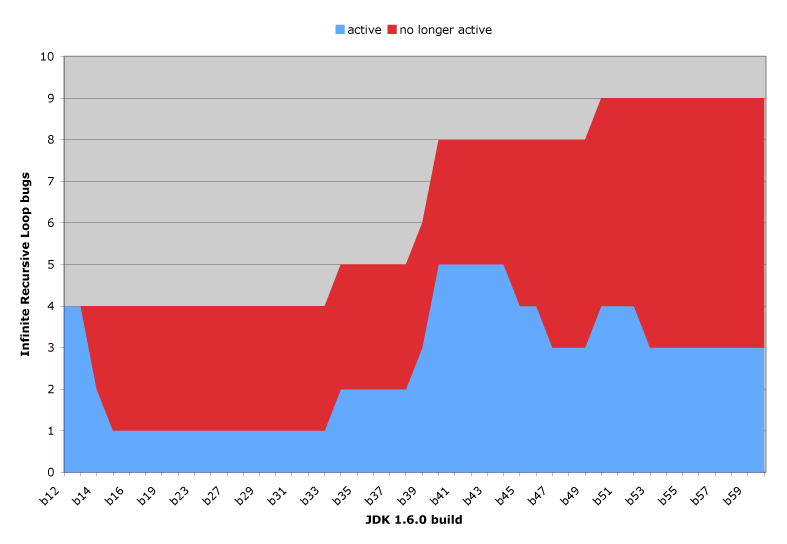
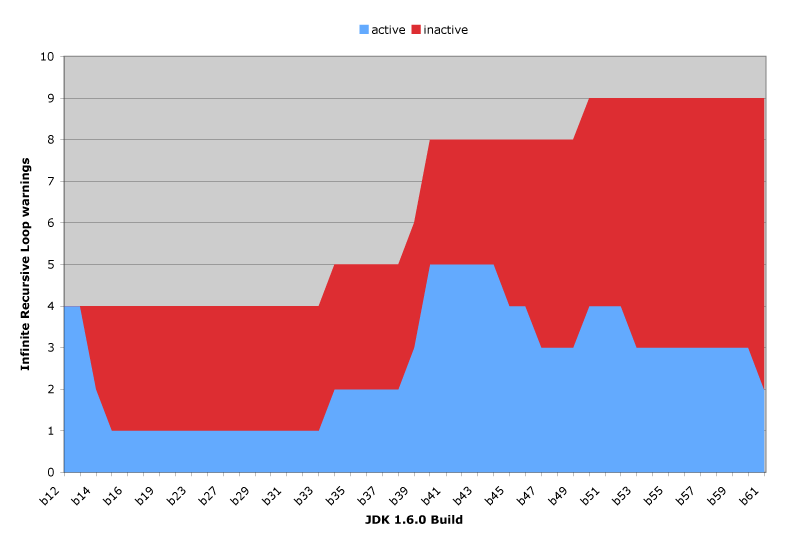
*** empty log message ***
git-svn-id: https://findbugs.googlecode.com/svn/trunk@5103 eae3c2d3-9b19-0410-a86e-396b6ccb6ab3

diff --git a/findbugs/src/doc/datamining.html b/findbugs/src/doc/datamining.html
@@ -88,9 +88,21 @@ If you have, for example, seperately analyzing each jar file used in an applicat
 <p>Do <em>not</em> use this command to combine results from analyzing different versions of the same
 file; use computeBugHistory instead.
 
-<h3><a name=""><h3></a><a name="computeBugHistory">computeBugHistory</a></h3>
+<h3><a name="computeBugHistory">computeBugHistory</a></h3>
 <p>Use this command to generate a bug database containing information from different builds or versions
-	of software you are analyzing.
+	of software you are analyzing. History is taken from the first file provided as input; any following 
+	files should be single version bug databases (if they contain history the history in those
+	files will be ignored). 
+	<p>The file the combined history is written to can be provided using the -output option, otherwise
+	it is written to standard output. The output file is not written until all input files are read, so
+	you can overwrite one of the input files if you wish.
+	
+<table>
+<tr><th>Option<th>meaning
+<tr><td>-output &lt;filename&gt;                        <td>name of file to write output to (standard out otherwise)
+</table>
+	
+	
 <h3><a name="filterBugs"><h3>filterBugs</a></h3>
 <p>This command is used to select a subset of warnings from a FindBugs XML warning file
 and write the selected subset to a new FindBugs warning file.
@@ -217,70 +229,97 @@ a table header.
 
 <h2>Examples</h2>
 <p>In all of the following, the commands are given in a directory that contains
-directories jdk1.6.0-b12, jdk1.6.0-b13, ..., jdk1.6.0-b60.
+directories jdk1.6.0-b12, jdk1.6.0-b13, ..., jdk1.6.0-b61, each of which contains 
+a file jre/lib/rt.xml that contains the results of running FindBugs over rt.jar for that build.
 
+<h3>Building a history file from scratch</h3>
 <p>You can use the command:
 <quote>
-<pre>computeBugHistory jdk1.6.0-b* | filterBugs -bugPattern IL_ | mineBugHistory -formatDates</pre>
+<pre>computeBugHistory -output db.xml jdk1.6.0-b*/jre/lib/rt.xml</pre>
 </quote>
-<p>to generate the following output:
+<p>to create a bug history file db.xml containing the historical information
+from all of the jdk builds. Having created db.xml, we can use:
+<quote>
+<pre>filterBugs -bugPattern IL_ db.xml | mineBugHistory -formatDates</pre>
+</quote>
+<p>to examine the history of infinite recursive loops in JDK 1.6.0:
 <quote>
 <pre>
-seq	version	time	classes	NCSS	added	newCode	fixed	removed	retained	dead	active
-0	jdk1.6.0-b12	"Thu Nov 11 09:07:20 EST 2004"	13128	811569	0	4	0	0	0	0	4
-1	jdk1.6.0-b13	"Thu Nov 18 06:02:06 EST 2004"	13128	811570	0	0	0	0	4	0	4
-2	jdk1.6.0-b14	"Thu Dec 02 06:12:26 EST 2004"	13145	811786	0	0	2	0	2	0	2
-3	jdk1.6.0-b15	"Thu Dec 09 06:07:04 EST 2004"	13174	811693	0	0	1	0	1	2	1
-4	jdk1.6.0-b16	"Thu Dec 16 06:21:28 EST 2004"	13175	811715	0	0	0	0	1	3	1
-5	jdk1.6.0-b17	"Thu Dec 23 06:27:22 EST 2004"	13176	811974	0	0	0	0	1	3	1
-6	jdk1.6.0-b19	"Thu Jan 13 06:41:16 EST 2005"	13176	812011	0	0	0	0	1	3	1
-7	jdk1.6.0-b21	"Thu Jan 27 05:57:52 EST 2005"	13177	812173	0	0	0	0	1	3	1
-8	jdk1.6.0-b23	"Thu Feb 10 05:44:36 EST 2005"	13179	812188	0	0	0	0	1	3	1
-9	jdk1.6.0-b26	"Thu Mar 03 06:04:02 EST 2005"	13199	811770	0	0	0	0	1	3	1
-10	jdk1.6.0-b27	"Thu Mar 10 04:48:38 EST 2005"	13189	812440	0	0	0	0	1	3	1
-11	jdk1.6.0-b28	"Thu Mar 17 02:54:22 EST 2005"	13185	812056	0	0	0	0	1	3	1
-12	jdk1.6.0-b29	"Thu Mar 24 03:09:20 EST 2005"	13117	809468	0	0	0	0	1	3	1
-13	jdk1.6.0-b30	"Thu Mar 31 02:53:32 EST 2005"	13118	809501	0	0	0	0	1	3	1
-14	jdk1.6.0-b31	"Thu Apr 07 03:00:14 EDT 2005"	13117	809572	0	0	0	0	1	3	1
-15	jdk1.6.0-b32	"Thu Apr 14 02:56:56 EDT 2005"	13169	811096	0	0	0	0	1	3	1
-16	jdk1.6.0-b33	"Thu Apr 21 02:46:22 EDT 2005"	13187	811942	0	0	0	0	1	3	1
-17	jdk1.6.0-b34	"Thu Apr 28 02:49:00 EDT 2005"	13195	813488	0	1	0	0	1	3	2
-18	jdk1.6.0-b35	"Thu May 05 02:49:04 EDT 2005"	13457	829837	0	0	0	0	2	3	2
-19	jdk1.6.0-b36	"Thu May 12 02:59:46 EDT 2005"	13462	831278	0	0	0	0	2	3	2
-20	jdk1.6.0-b37	"Thu May 19 02:55:08 EDT 2005"	13464	831971	0	0	0	0	2	3	2
-21	jdk1.6.0-b38	"Thu May 26 03:08:16 EDT 2005"	13564	836565	0	0	0	0	2	3	2
-22	jdk1.6.0-b39	"Fri Jun 03 03:10:48 EDT 2005"	13856	849992	0	1	0	0	2	3	3
-23	jdk1.6.0-b40	"Thu Jun 09 03:30:28 EDT 2005"	15972	959619	0	2	0	0	3	3	5
-24	jdk1.6.0-b41	"Thu Jun 16 03:19:22 EDT 2005"	15972	959619	0	0	0	0	5	3	5
-25	jdk1.6.0-b42	"Fri Jun 24 03:38:54 EDT 2005"	15966	958581	0	0	0	0	5	3	5
-26	jdk1.6.0-b43	"Thu Jul 14 03:09:34 EDT 2005"	16041	960544	0	0	0	0	5	3	5
-27	jdk1.6.0-b44	"Thu Jul 21 03:05:54 EDT 2005"	16041	960547	0	0	0	0	5	3	5
-28	jdk1.6.0-b45	"Thu Jul 28 03:26:10 EDT 2005"	16037	960606	0	0	1	0	4	3	4
-29	jdk1.6.0-b46	"Thu Aug 04 03:02:48 EDT 2005"	15936	951355	0	0	0	0	4	4	4
-30	jdk1.6.0-b47	"Thu Aug 11 03:18:56 EDT 2005"	15964	952387	0	0	1	0	3	4	3
-31	jdk1.6.0-b48	"Thu Aug 18 08:10:40 EDT 2005"	15970	953421	0	0	0	0	3	5	3
-32	jdk1.6.0-b49	"Thu Aug 25 03:24:38 EDT 2005"	16048	958940	0	0	0	0	3	5	3
-33	jdk1.6.0-b50	"Thu Sep 01 01:52:40 EDT 2005"	16287	974937	1	0	0	0	3	5	4
-34	jdk1.6.0-b51	"Thu Sep 08 01:55:36 EDT 2005"	16362	979377	0	0	0	0	4	5	4
-35	jdk1.6.0-b52	"Thu Sep 15 02:04:08 EDT 2005"	16477	979399	0	0	0	0	4	5	4
-36	jdk1.6.0-b53	"Thu Sep 22 02:00:28 EDT 2005"	16019	957900	0	0	1	0	3	5	3
-37	jdk1.6.0-b54	"Thu Sep 29 01:54:34 EDT 2005"	16019	957900	0	0	0	0	3	6	3
-38	jdk1.6.0-b55	"Thu Oct 06 01:54:14 EDT 2005"	16051	959014	0	0	0	0	3	6	3
-39	jdk1.6.0-b56	"Thu Oct 13 01:54:12 EDT 2005"	16211	970835	0	0	0	0	3	6	3
-40	jdk1.6.0-b57	"Thu Oct 20 01:55:26 EDT 2005"	16279	971627	0	0	0	0	3	6	3
-41	jdk1.6.0-b58	"Thu Oct 27 01:56:30 EDT 2005"	16283	971945	0	0	0	0	3	6	3
-42	jdk1.6.0-b59	"Thu Nov 03 01:56:58 EST 2005"	16232	972193	0	0	0	0	3	6	3
-43	jdk1.6.0-b60	"Thu Nov 10 01:54:18 EST 2005"	16235	972346	0	0	0	0	3	6	3
+seq     version time    classes NCSS    added   newCode fixed   removed retained        dead    active
+0       jdk1.6.0-b12    1100182040000   13128   811569  0       4       0       0       0       0       4
+1       jdk1.6.0-b13    1100775726000   13128   811570  0       0       0       0       4       0       4
+2       jdk1.6.0-b14    1101985946000   13145   811786  0       0       2       0       2       0       2
+3       jdk1.6.0-b15    1102590424000   13174   811693  0       0       1       0       1       2       1
+4       jdk1.6.0-b16    1103196088000   13175   811715  0       0       0       0       1       3       1
+5       jdk1.6.0-b17    1103801242000   13176   811974  0       0       0       0       1       3       1
+6       jdk1.6.0-b19    1105616476000   13176   812011  0       0       0       0       1       3       1
+7       jdk1.6.0-b21    1106823472000   13177   812173  0       0       0       0       1       3       1
+8       jdk1.6.0-b23    1108032276000   13179   812188  0       0       0       0       1       3       1
+9       jdk1.6.0-b26    1109847842000   13199   811770  0       0       0       0       1       3       1
+10      jdk1.6.0-b27    1110448118000   13189   812440  0       0       0       0       1       3       1
+11      jdk1.6.0-b28    1111046062000   13185   812056  0       0       0       0       1       3       1
+12      jdk1.6.0-b29    1111651760000   13117   809468  0       0       0       0       1       3       1
+13      jdk1.6.0-b30    1112255612000   13118   809501  0       0       0       0       1       3       1
+14      jdk1.6.0-b31    1112857214000   13117   809572  0       0       0       0       1       3       1
+15      jdk1.6.0-b32    1113461816000   13169   811096  0       0       0       0       1       3       1
+16      jdk1.6.0-b33    1114065982000   13187   811942  0       0       0       0       1       3       1
+17      jdk1.6.0-b34    1114670940000   13195   813488  0       1       0       0       1       3       2
+18      jdk1.6.0-b35    1115275744000   13457   829837  0       0       0       0       2       3       2
+19      jdk1.6.0-b36    1115881186000   13462   831278  0       0       0       0       2       3       2
+20      jdk1.6.0-b37    1116485708000   13464   831971  0       0       0       0       2       3       2
+21      jdk1.6.0-b38    1117091296000   13564   836565  0       0       0       0       2       3       2
+22      jdk1.6.0-b39    1117782648000   13856   849992  0       1       0       0       2       3       3
+23      jdk1.6.0-b40    1118302228000   15972   959619  0       2       0       0       3       3       5
+24      jdk1.6.0-b41    1118906362000   15972   959619  0       0       0       0       5       3       5
+25      jdk1.6.0-b42    1119598734000   15966   958581  0       0       0       0       5       3       5
+26      jdk1.6.0-b43    1121324974000   16041   960544  0       0       0       0       5       3       5
+27      jdk1.6.0-b44    1121929554000   16041   960547  0       0       0       0       5       3       5
+28      jdk1.6.0-b45    1122535570000   16037   960606  0       0       1       0       4       3       4
+29      jdk1.6.0-b46    1123138968000   15936   951355  0       0       0       0       4       4       4
+30      jdk1.6.0-b47    1123744736000   15964   952387  0       0       1       0       3       4       3
+31      jdk1.6.0-b48    1124367040000   15970   953421  0       0       0       0       3       5       3
+32      jdk1.6.0-b49    1124954678000   16048   958940  0       0       0       0       3       5       3
+33      jdk1.6.0-b50    1125553960000   16287   974937  1       0       0       0       3       5       4
+34      jdk1.6.0-b51    1126158936000   16362   979377  0       0       0       0       4       5       4
+35      jdk1.6.0-b52    1126764248000   16477   979399  0       0       0       0       4       5       4
+36      jdk1.6.0-b53    1127368828000   16019   957900  0       0       1       0       3       5       3
+37      jdk1.6.0-b54    1127973274000   16019   957900  0       0       0       0       3       6       3
+38      jdk1.6.0-b55    1128578054000   16051   959014  0       0       0       0       3       6       3
+39      jdk1.6.0-b56    1129182852000   16211   970835  0       0       0       0       3       6       3
+40      jdk1.6.0-b57    1129787726000   16279   971627  0       0       0       0       3       6       3
+41      jdk1.6.0-b58    1130392590000   16283   971945  0       0       0       0       3       6       3
+42      jdk1.6.0-b59    1131001018000   16232   972193  0       0       0       0       3       6       3
+43      jdk1.6.0-b60    1131605658000   16235   972346  0       0       0       0       3       6       3
+44      jdk1.6.0-b61    1132210722000   16202   971134  0       0       1       0       2       6       2
 </pre>
 </quote>
+<p>We could also generate that information directly, without creating an intermediate db.xml file,
+using the command
+<quote>
+<pre>computeBugHistory  jdk1.6.0-b*/jre/lib/rt.xml | filterBugs -bugPattern IL_ db.xml | mineBugHistory -formatDates</pre>
+</quote>
+
 <p>We can then use that information to display a graph showing the number of infinite recursive loops
 found by FindBugs in each build of Sun's JDK1.6.0. The blue area indicates the number of infinite
 recursive loops in that build, the red area above it indicates the number of infinite recursive loops that existed
 in some previous version but not in the current version (thus, the combined height of the red and blue areas
 is guaranteed to never decrease, and goes up whenever a new infinite recursive loop bug is introduced). The height
-of the red area is computed as the sum of the fixed, removed and dead values for each version.
+of the red area is computed as the sum of the fixed, removed and dead values for each version. The reductions in builds 13 and 14
+came after Sun was notified about the bugs found by FindBugs in the JDK.
 
 <p align=center><img src="infiniteRecursiveLoops.png">
+
+<h3>Incremental history mantainance</h3>
+<p>If db.xml contains the results of running findbugs over builds b12 - b60, we can update db.xml to include
+the results of analyzing b61 with the commands:
+quote>
+<pre>computeBugHistory -output db.xml db.xml jdk1.6.0-b61/jre/lib/rt.xml</pre>
+</quote>
+<p>to create a bug history file db.xml containing the historical information
+from all of the jdk builds. Having created db.xml, we can use:
+<quote>
+<pre>filterBugs -bugPattern IL_ db.xml | mineBugHistory -formatDates</pre>
+</quote>
 
 
 @HTML_FOOTER@
